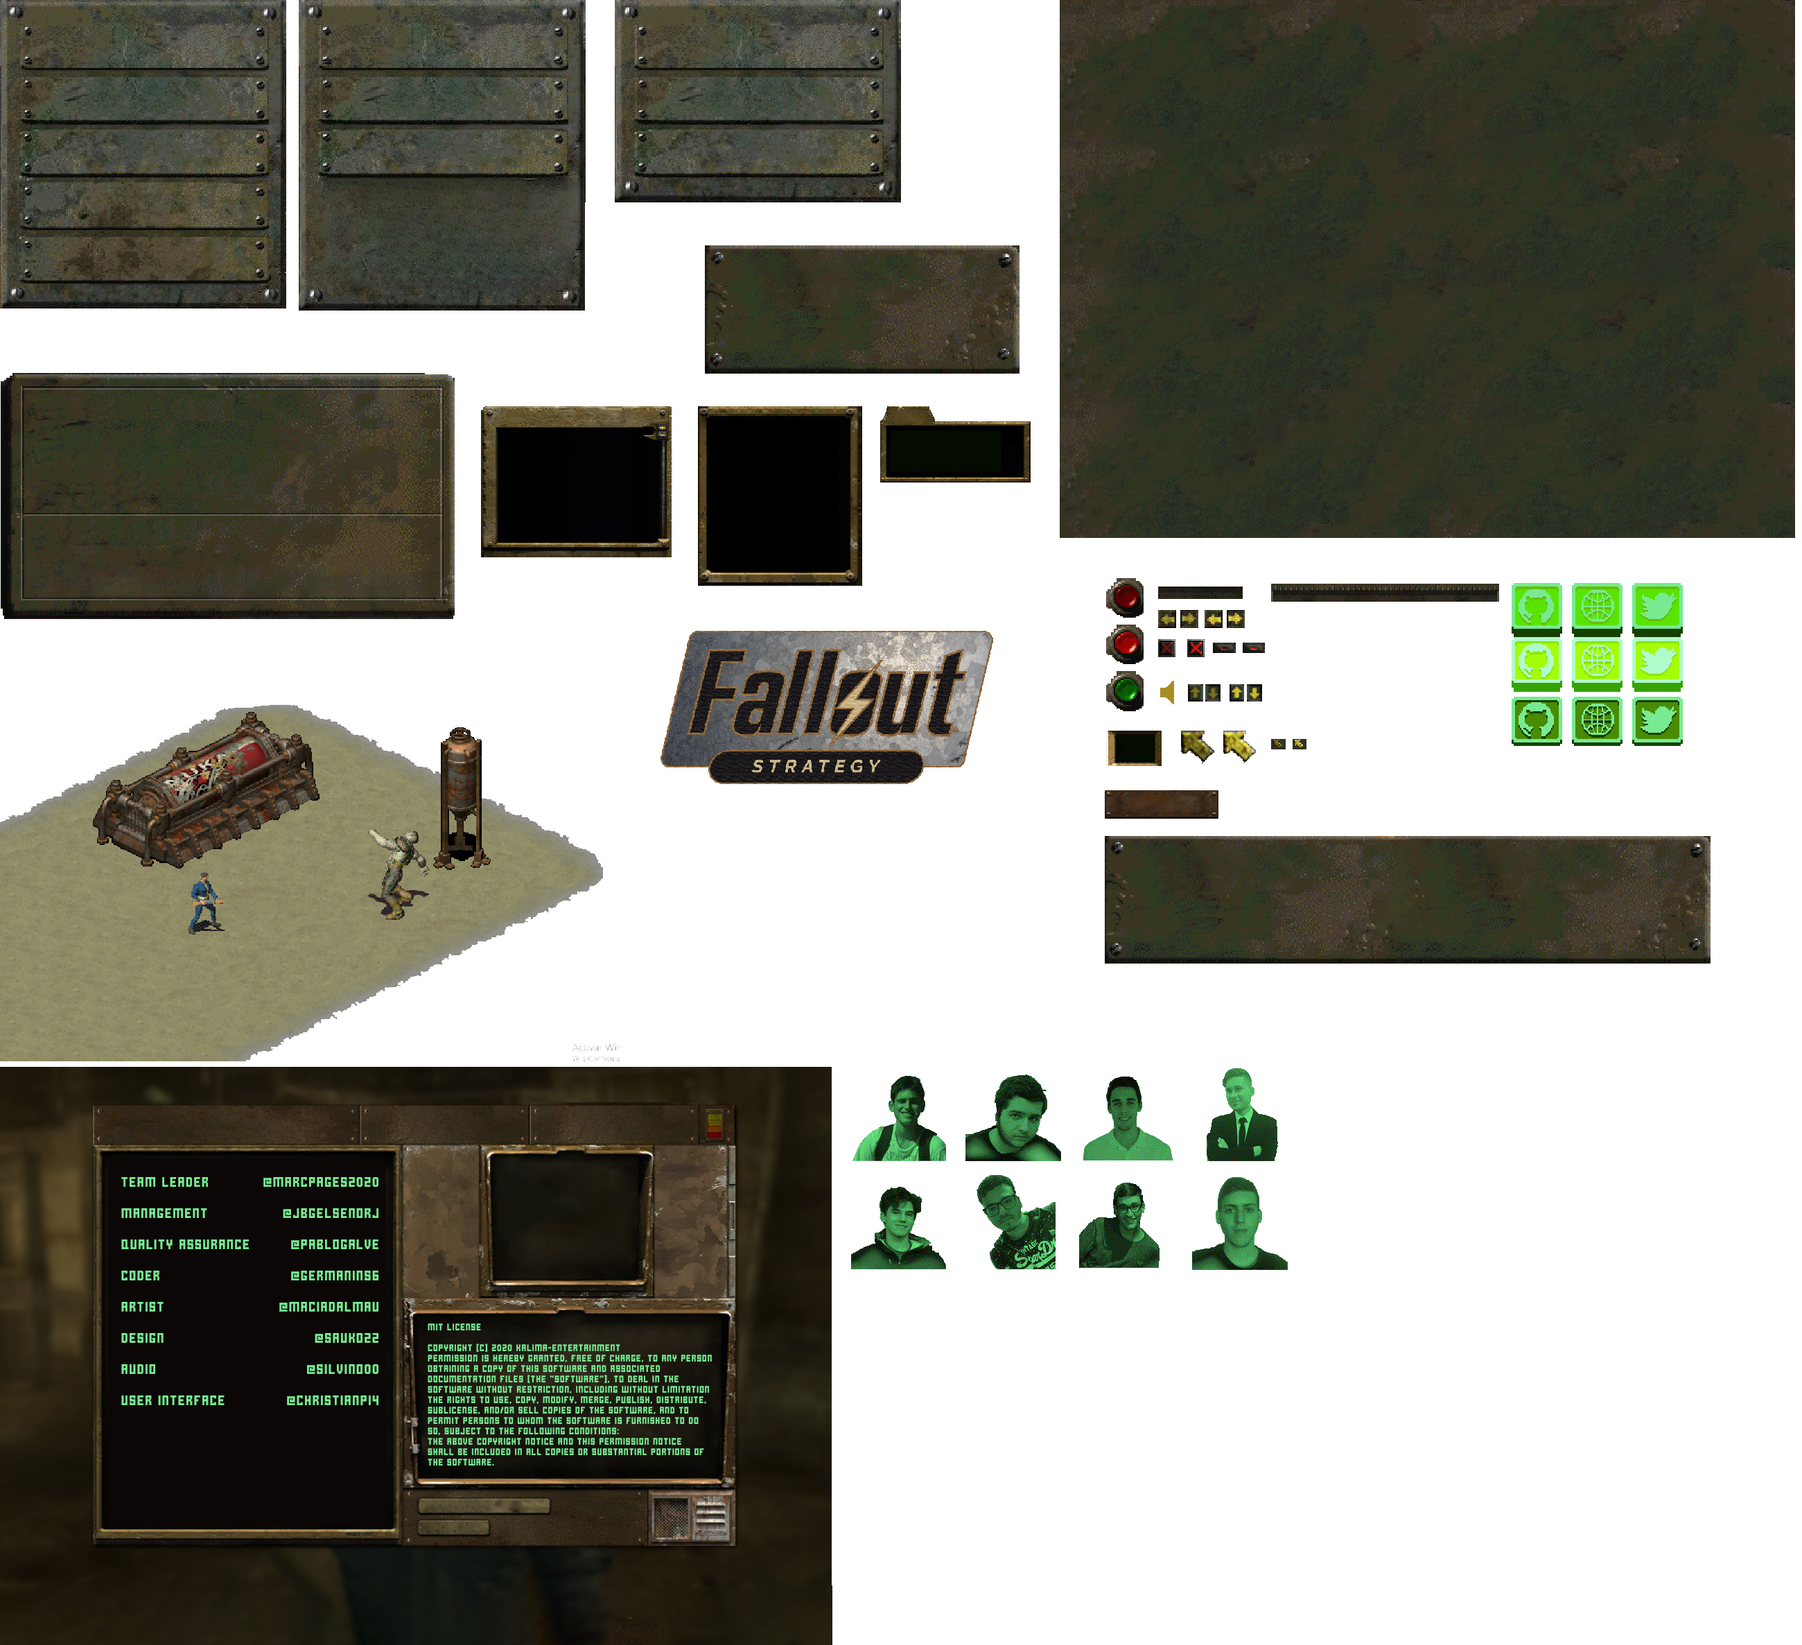
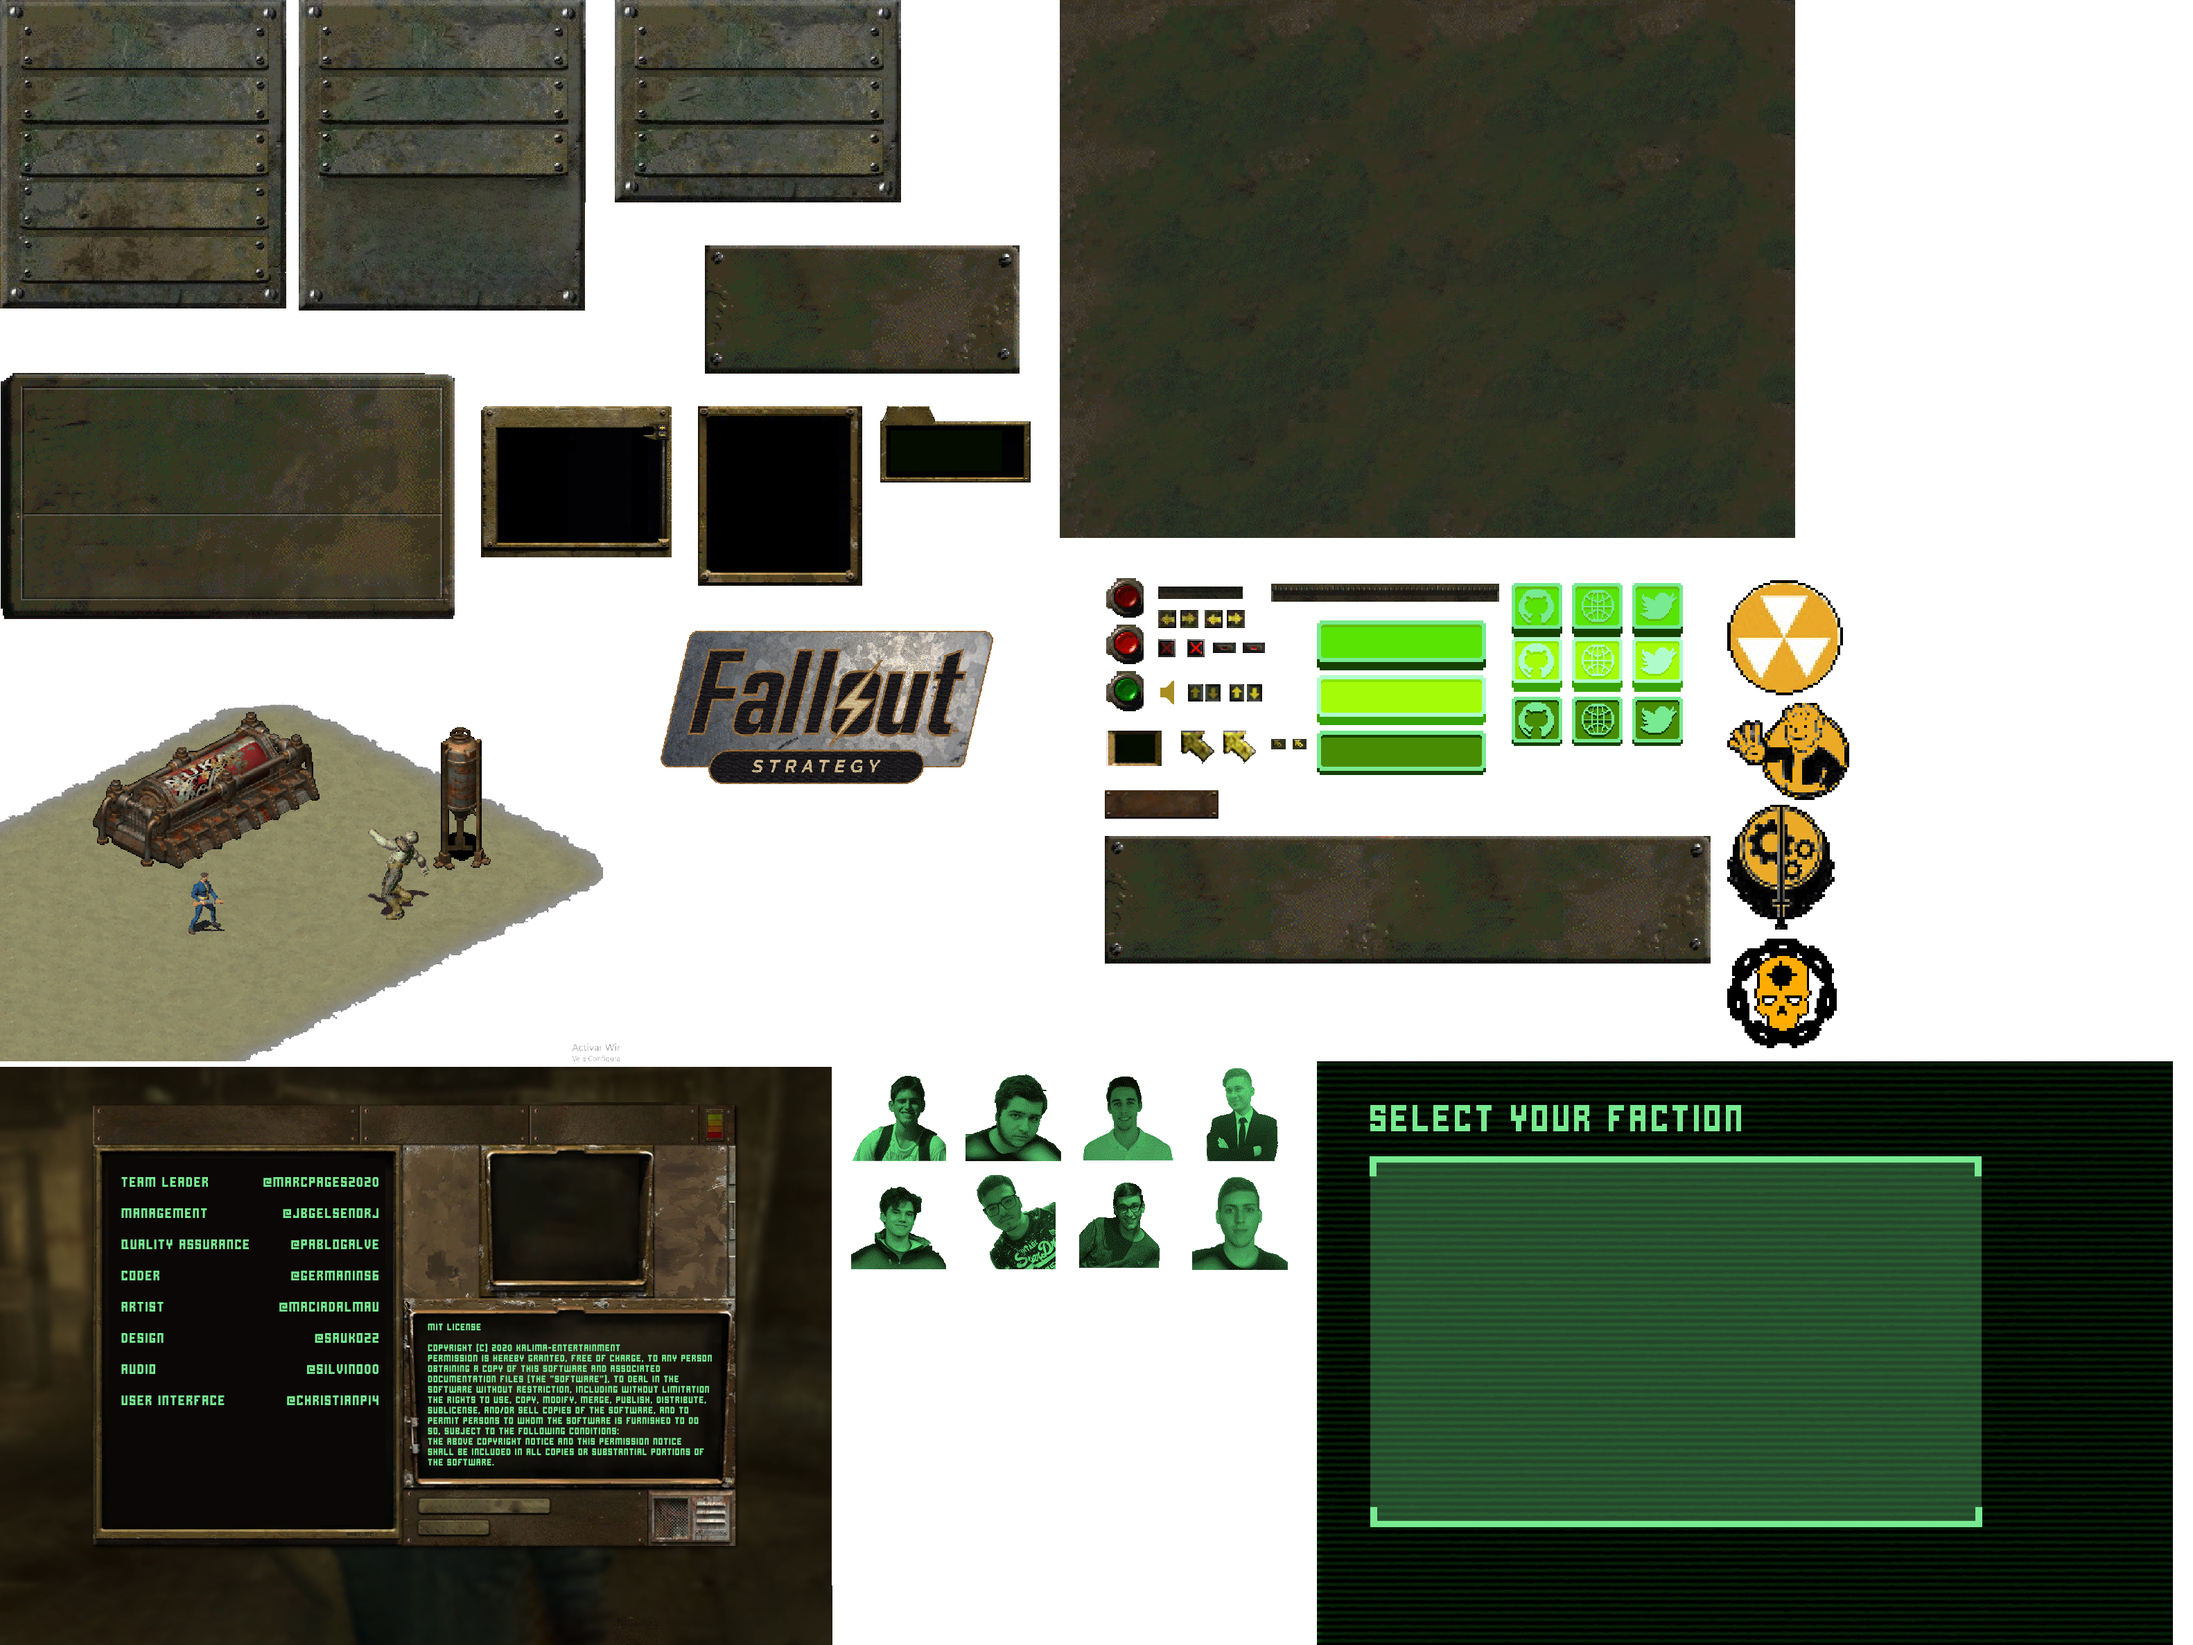
Starting to create select faction menu

diff --git a/FalloutStrategy/Motor2D/MenuManager.cpp b/FalloutStrategy/Motor2D/MenuManager.cpp
@@ -235,3 +235,32 @@ void MenuManager::DestroyAllCollaboratorsPictures()
 	App->gui->Delete_Element(credits_menu.cristian_image);
 
 }
+
+void MenuManager::CreateSelectFaction()
+{
+	//Images
+	select_faction_menu.background = (j1Image*)App->gui->CreateImage(-5, 0, Image, { 1900, 1531, 1240, 842 }, NULL, this);
+	select_faction_menu.ghouls = (j1Image*)App->gui->CreateImage(100, 300, Image, { 2492, 837, 168, 166 }, NULL, this);
+	select_faction_menu.vault = (j1Image*)App->gui->CreateImage(310, 300, Image, { 2492, 1014, 177, 140 }, NULL, this);
+	select_faction_menu.brotherhood = (j1Image*)App->gui->CreateImage(550, 300, Image, { 2492, 1161, 155, 180 }, NULL, this);
+	select_faction_menu.supermutants = (j1Image*)App->gui->CreateImage(750, 300, Image, { 2492, 1354, 158, 158 }, NULL, this);
+
+	//Buttons
+	select_faction_menu.ghouls_button = (UI_Button*)App->gui->CreateButton(150, 200, button_select_ghoul, { 1900,895,244,72 }, { 1900,974,244,72 }, { 1900,1054,144,64 }, NULL, this);
+	select_faction_menu.vault_button = (UI_Button*)App->gui->CreateButton(150, 300, button_select_vault, { 1900,895,244,72 }, { 1900,974,244,72 }, { 1900,1054,144,64 }, NULL, this);
+	select_faction_menu.brotherhood_button = (UI_Button*)App->gui->CreateButton(150, 400, button_select_brotherhood, { 1900,895,244,72 }, { 1900,974,244,72 }, { 1900,1054,144,64 }, NULL, this);
+	select_faction_menu.supermutants_button = (UI_Button*)App->gui->CreateButton(150, 500, button_select_supermutant, { 1900,895,244,72 }, { 1900,974,244,72 }, { 1900,1054,144,64 }, NULL, this);
+
+	//Labels
+	select_faction_menu.ghouls_label = (UI_Label*)App->gui->CreateLabel(230, 215, ghouls_label, "GHOUL", NULL, this, NULL);
+	select_faction_menu.vault_label = (UI_Label*)App->gui->CreateLabel(228, 315, ghouls_label, "VAULT", NULL, this, NULL);
+	select_faction_menu.brotherhood_label = (UI_Label*)App->gui->CreateLabel(170, 415, ghouls_label, "BROTHERHOOD", NULL, this, NULL);
+	select_faction_menu.supermutants_label = (UI_Label*)App->gui->CreateLabel(164, 515, ghouls_label, "SUPERMUTANT", NULL, this, NULL);
+}
+
+void MenuManager::DestroySelectFaction()
+{
+
+	App->gui->Delete_Element(select_faction_menu.background);
+
+}

diff --git a/FalloutStrategy/Motor2D/MenuManager.h b/FalloutStrategy/Motor2D/MenuManager.h
@@ -77,6 +77,25 @@ struct UI_credits {
 
 };
 
+struct UI_select_faction {
+
+	j1Image* background = nullptr;
+	j1Image* ghouls = nullptr;
+	j1Image* brotherhood = nullptr;
+	j1Image* supermutants = nullptr;
+	j1Image* vault = nullptr;
+
+	UI_Button* ghouls_button = nullptr;
+	UI_Button* brotherhood_button = nullptr;
+	UI_Button* supermutants_button = nullptr;
+	UI_Button* vault_button = nullptr;
+
+	UI_Label* ghouls_label = nullptr;
+	UI_Label* brotherhood_label = nullptr;
+	UI_Label* supermutants_label = nullptr;
+	UI_Label* vault_label = nullptr;
+};
+
 class MenuManager :public j1Module {
 
 public:
@@ -95,11 +114,15 @@ public:
 	void DestroySettings();
 	void CreateCollaboratorPicture();
 	void DestroyAllCollaboratorsPictures();
+	void CreateSelectFaction();
+	void DestroySelectFaction();
 
 public:
 
 	UI_main_menu	main_menu;
 	UI_credits	credits_menu;
+	UI_select_faction select_faction_menu;
+
 	char collaborator = 'M';
 	
 };

diff --git a/FalloutStrategy/Motor2D/j1Fonts.h b/FalloutStrategy/Motor2D/j1Fonts.h
@@ -4,8 +4,8 @@
 #include "j1Module.h"
 #include "SDL\include\SDL_pixels.h"
 
-#define DEFAULT_FONT "fonts/monofonto/monofonto.ttf"
-#define DEFAULT_FONT_SIZE 42
+#define DEFAULT_FONT "fonts/stacked/StackedPixel.ttf"
+#define DEFAULT_FONT_SIZE 38
 
 struct SDL_Texture;
 struct _TTF_Font;
@@ -29,7 +29,7 @@ public:
 	_TTF_Font* const Load(const char* path, int size = 12);
 
 	// Create a surface from text
-	SDL_Texture* Print(const char* text, SDL_Color color = {242, 212, 61, 255}, _TTF_Font* font = NULL);
+	SDL_Texture* Print(const char* text, SDL_Color color = {80, 206, 137, 255}, _TTF_Font* font = NULL);
 
 	bool CalcSize(const char* text, int& width, int& height, _TTF_Font* font = NULL) const;
 

diff --git a/FalloutStrategy/Motor2D/UI_element.h b/FalloutStrategy/Motor2D/UI_element.h
@@ -10,6 +10,10 @@ struct SDL_Texture;
 
 enum UI_Type {
 
+	button_select_ghoul,
+	button_select_brotherhood,
+	button_select_supermutant,
+	button_select_vault,
 	button_new_game,
 	button_back_credits,
 	button_github_credits,
@@ -62,6 +66,7 @@ enum UI_Type {
 	text_fx_volume,
 	text_music_volume,
 	text_fps,
+	ghouls_label,
 
 	Heart,
 	Timer,

diff --git a/FalloutStrategy/Motor2D/UI_Label.cpp b/FalloutStrategy/Motor2D/UI_Label.cpp
@@ -53,7 +53,7 @@ bool UI_Label::SetLabelText(const char* text_input)
 {
 	bool ret = false;
 
-	text_texture = App->font->Print(text_input, { 242,207,99,255 }, App->font->fonts.start->data);
+	text_texture = App->font->Print(text_input, { 244,244,244,255 }, App->font->fonts.start->data);
 	
 	if (text_texture != nullptr)
 	{

diff --git a/FalloutStrategy/Motor2D/UI_Button.cpp b/FalloutStrategy/Motor2D/UI_Button.cpp
@@ -110,6 +110,7 @@ bool UI_Button::Update(float dt)
 			if (t == button_new_game) 
 			{
 				App->menu_manager->DestroyMainMenu();
+				App->menu_manager->CreateSelectFaction();
 				App->audio->PlayFx(click_fx, 0);
 			}
 			
